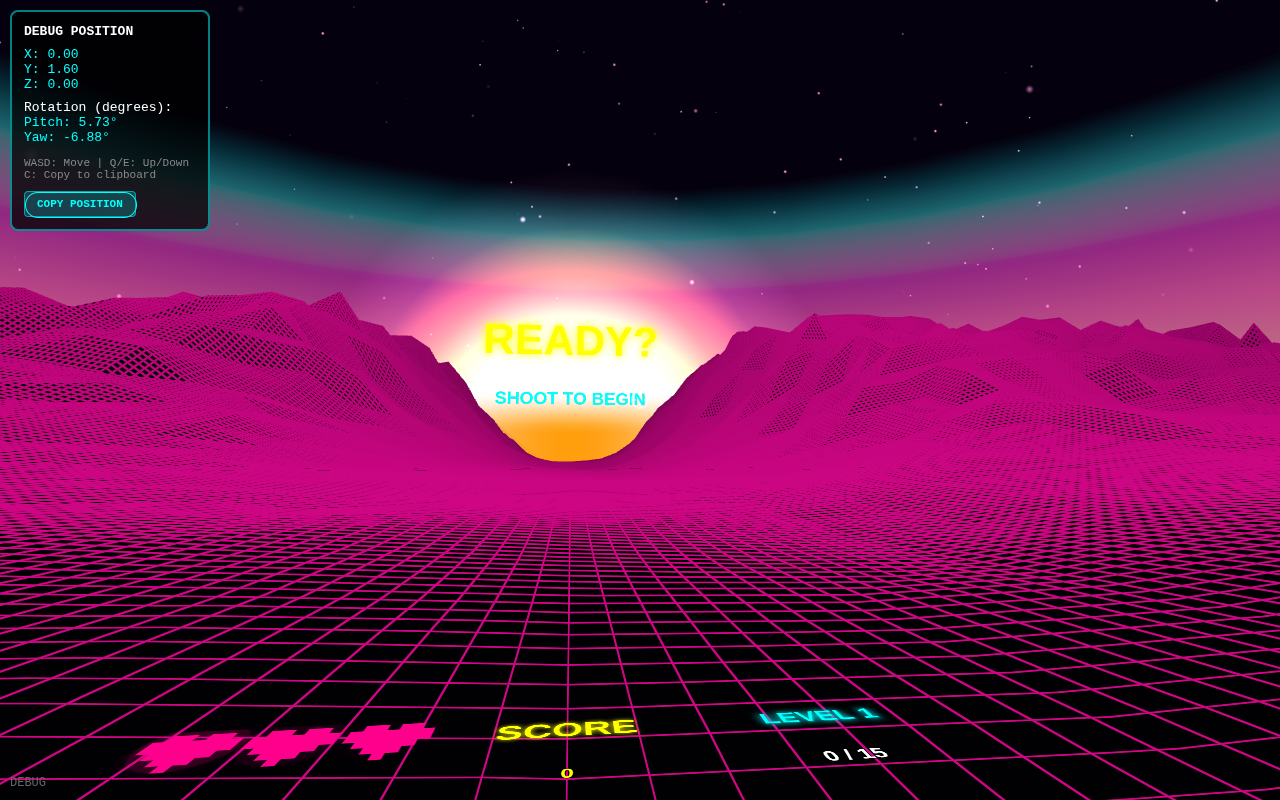
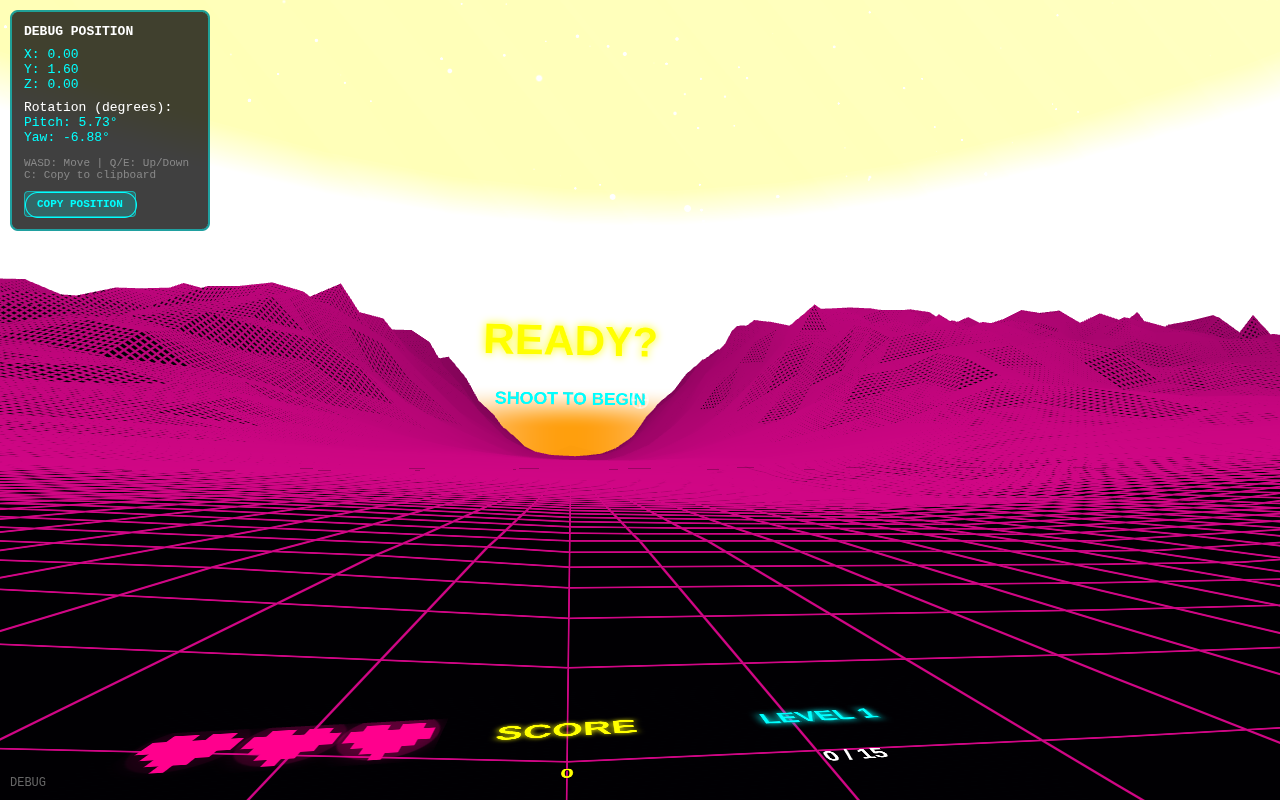
fix: VR camera height, alien planet FPS, hurt sound, synthwave improvements
VR Camera (proper fix):
- Use XRReferenceSpace.getOffsetReferenceSpace() for 0.4m Y offset
- Previous per-frame Y check was being overwritten by XR
- Now uses proper WebXR method for virtual camera height

Alien Planet FPS:
- Staggered updates: fireflies every 3rd frame, plants every 2nd
- Root cause was per-frame updates, not geometry count
- Restored visuals: fireflies 40→60, increased size

Player Hurt Sound (Minecraft-style):
- White noise burst with bandpass filter (sharp crack)
- Low thump: sine 150Hz→40Hz (body impact)
- High crack: square 800Hz→100Hz (whip-like)
- Duration: 0.12s (was 0.25s) - more immediate

Synthwave:
- Mountain quality: step 80→40 (doubled resolution)
- Sun: sprites→mesh (no more billboarding)
- All elements raised 8 units on Y axis

diff --git a/main.js b/main.js
@@ -303,21 +303,11 @@ let cameraShake = 0;
 let cameraShakeIntensity = 0;
 const originalCameraPos = new THREE.Vector3();
 
-// Helper: Get adjusted camera position for VR mode
-// In VR mode, the camera Y position represents the user's actual eye height.
-// This can vary from person to person, so we adjust it to match the game's
-// expected eye level of 1.6m for consistent UI positioning and enemy targeting.
+// Helper: Get camera position for UI positioning and enemy targeting
+// With the XR reference space offset (set during session start), camera.position.y
+// already includes the height offset. This function just returns the current position.
 function getAdjustedCameraPosition() {
-  if (!renderer || !renderer.xr || !renderer.xr.isPresenting) {
-    return camera.position.clone();
-  }
-  // In VR mode, adjust camera Y to match game's expected eye level
-  const adjusted = camera.position.clone();
-  const vrCameraY = camera.position.y;
-  const expectedEyeLevel = 1.6;
-  // Raise the virtual camera Y to match where enemies are targeting
-  adjusted.y = Math.max(vrCameraY, expectedEyeLevel);
-  return adjusted;
+  return camera.position.clone();
 }
 
 // Screen shake system
@@ -409,11 +399,25 @@ function init() {
     console.log('[vr] Session started - disabling foveation');
     renderer.xr.setFoveation(0);
 
-    // Ensure camera is at correct eye level when VR session starts
-    const MIN_EYE_LEVEL = 1.6;
-    if (camera.position.y < MIN_EYE_LEVEL) {
-      console.log('[vr] Adjusting camera Y from', camera.position.y, 'to', MIN_EYE_LEVEL);
-      camera.position.y = MIN_EYE_LEVEL;
+    // Fix VR camera height by offsetting the XR reference space
+    // In WebXR, camera.position is controlled by the XR device and updated every frame.
+    // To raise the virtual camera, we need to offset the reference space origin.
+    const session = renderer.xr.getSession();
+    if (session) {
+      session.requestReferenceSpace('local-floor').then((refSpace) => {
+        // Create an offset that raises the virtual camera by 0.4m
+        // This makes the player appear taller in the virtual world
+        const CAMERA_HEIGHT_OFFSET = 0.4;  // meters to raise the virtual camera
+        const offsetTransform = new XRRigidTransform(
+          { x: 0, y: CAMERA_HEIGHT_OFFSET, z: 0 },
+          { x: 0, y: 0, z: 0, w: 1 }
+        );
+        const offsetRefSpace = refSpace.getOffsetReferenceSpace(offsetTransform);
+        renderer.xr.setReferenceSpace(offsetRefSpace);
+        console.log('[vr] Applied camera height offset of', CAMERA_HEIGHT_OFFSET, 'm');
+      }).catch((err) => {
+        console.warn('[vr] Failed to set reference space offset:', err);
+      });
     }
   });
 
@@ -9129,15 +9133,9 @@ function render(timestamp) {
     }
   }
 
-  // ── VR camera height enforcement ──
-  // Ensure camera is always at correct eye level in VR mode
-  // This handles Quest re-center and VR re-entry cases
-  if (renderer.xr.isPresenting) {
-    const MIN_EYE_LEVEL = 1.6;
-    if (camera.position.y < MIN_EYE_LEVEL) {
-      camera.position.y = MIN_EYE_LEVEL;
-    }
-  }
+  // ── VR camera height is handled by XR reference space offset ──
+  // The offset is applied once when the XR session starts (see sessionstart handler)
+  // No per-frame modification needed - the reference space handles it correctly
 
   // ── Screen shake removed - using floor flash instead ──
   // Screen shake was causing camera position issues
@@ -9487,7 +9485,7 @@ function buildSynthwaveValleyScene(group) {
     fragmentShader: `uniform vec3 uGridColor; uniform vec3 uBaseColor; uniform vec3 uFogColor; uniform float uFlashIntensity; varying vec3 vWorldPos; varying vec3 vObjPos; varying float vHeight; varying float vFogDistance; float gridLine(float coord,float width){ float g=abs(fract(coord-0.5)-0.5)/fwidth(coord); return 1.0-smoothstep(width,width+1.0,g);} void main(){ float gridScale=1.0/3.0; float gx=gridLine(vObjPos.x*gridScale,0.35); float gz=gridLine(vObjPos.z*gridScale,0.35); float grid=max(gx,gz); float glowPath=exp(-abs(vObjPos.x)*0.014)*smoothstep(350.0,-150.0,vObjPos.z); grid=max(grid, glowPath*0.34); vec3 col=mix(uBaseColor, uGridColor, grid); float ridgeGlow=smoothstep(48.0,160.0,vHeight)*smoothstep(100.0,350.0,abs(vObjPos.x)); col+=uGridColor*ridgeGlow*0.18; float fogAmount=1.0-exp(-0.0000012*vFogDistance*vFogDistance); col=mix(col,uFogColor, clamp(fogAmount*0.58,0.0,1.0)); vec3 flashColor=vec3(1.0,0.0,0.0); col=mix(col,flashColor,uFlashIntensity); gl_FragColor=vec4(col*${brightness.toFixed(2)},1.0); }`,
   });
   const terrain = new THREE.Mesh(terrainGeo, terrainMat);
-  terrain.position.set(0, floorY + 1.5, -700);
+  terrain.position.set(0, floorY + 1.5 + 8, -700);  // Moved up by 8 units (Task 4)
   terrain.frustumCulled = false;
   group.add(terrain);
   registerFadeMaterial(terrainMat);
@@ -9495,10 +9493,11 @@ function buildSynthwaveValleyScene(group) {
   biomeTerrainMaterials.push({ type: 'shader', material: terrainMat });
 
   // Mountains with polygonOffset to prevent Z-fighting
+  // Restored quality: reduced step from 80 to 40 for better mountain resolution
   const makeLayer = (color, opacity, scaleY, z, y) => {
     const points = [];
     const width = 2000;
-    const step = 80;
+    const step = 40;
     for (let x = -width / 2; x <= width / 2; x += step) {
       const n1 = Math.sin(x * 0.012 + z * 0.003) * 0.5 + 0.5;
       const n2 = Math.sin(x * 0.043 - z * 0.001) * 0.5 + 0.5;
@@ -9509,10 +9508,10 @@ function buildSynthwaveValleyScene(group) {
     points.push(new THREE.Vector2(width / 2, -120));
     const shape = new THREE.Shape(points);
     const geo = new THREE.ShapeGeometry(shape);
-    const mat = new THREE.MeshBasicMaterial({ 
-      color, 
-      transparent: true, 
-      opacity, 
+    const mat = new THREE.MeshBasicMaterial({
+      color,
+      transparent: true,
+      opacity,
       depthWrite: false,
       depthTest: true,
       polygonOffset: true,
@@ -9520,7 +9519,7 @@ function buildSynthwaveValleyScene(group) {
       polygonOffsetUnits: 2.0,
     });
     const mesh = new THREE.Mesh(geo, mat);
-    mesh.position.set(0, y, z);
+    mesh.position.set(0, y + 8, z);  // Moved up by 8 units (Task 4)
     mesh.frustumCulled = false;
     group.add(mesh);
     registerFadeMaterial(mat);
@@ -9530,7 +9529,7 @@ function buildSynthwaveValleyScene(group) {
 
   // Sun + glow
   const sunGroup = new THREE.Group();
-  sunGroup.position.set(0, 30, -760);
+  sunGroup.position.set(0, 30 + 8, -760);  // Moved up by 8 units (Task 4)
   group.add(sunGroup);
 
   const makeRadial = (inner, outer) => {
@@ -9550,25 +9549,25 @@ function buildSynthwaveValleyScene(group) {
   const sunCoreTex = makeRadial('rgba(255,220,80,1.0)', 'rgba(255,200,50,1.0)');
   // Add a second brighter glow layer for maximum intensity
   const sunOuterGlowTex = makeRadial('rgba(255,230,100,0.9)', 'rgba(255,180,60,0.3)');
-  // Outer massive glow - very large to illuminate scene
-  const sunOuterGlowMat = new THREE.SpriteMaterial({ map: sunOuterGlowTex, color: 0xffffff, transparent: true, opacity: 1.0, depthWrite: false, blending: THREE.AdditiveBlending });
-  const sunOuterGlow = new THREE.Sprite(sunOuterGlowMat);
+  // Outer massive glow - very large to illuminate scene (FIX: converted Sprite to Mesh to disable billboarding)
+  const sunOuterGlowMat = new THREE.MeshBasicMaterial({ map: sunOuterGlowTex, color: 0xffffff, transparent: true, opacity: 1.0, depthWrite: false, blending: THREE.AdditiveBlending, side: THREE.DoubleSide });
+  const sunOuterGlow = new THREE.Mesh(new THREE.PlaneGeometry(700, 700), sunOuterGlowMat);
   sunOuterGlow.scale.set(700, 700, 1);
   sunOuterGlow.frustumCulled = false;
   sunOuterGlow.renderOrder = -3;
   sunGroup.add(sunOuterGlow);
   registerFadeMaterial(sunOuterGlowMat);
-  // Main bright glow
-  const sunGlowMat = new THREE.SpriteMaterial({ map: sunGlowTex, color: 0xffcc00, transparent: true, opacity: 1.0, depthWrite: false, blending: THREE.AdditiveBlending });
-  const sunGlow = new THREE.Sprite(sunGlowMat);
+  // Main bright glow (FIX: converted Sprite to Mesh to disable billboarding)
+  const sunGlowMat = new THREE.MeshBasicMaterial({ map: sunGlowTex, color: 0xffcc00, transparent: true, opacity: 1.0, depthWrite: false, blending: THREE.AdditiveBlending, side: THREE.DoubleSide });
+  const sunGlow = new THREE.Mesh(new THREE.PlaneGeometry(550, 550), sunGlowMat);
   sunGlow.scale.set(550, 550, 1);
   sunGlow.frustumCulled = false;
   sunGlow.renderOrder = -2;
   sunGroup.add(sunGlow);
   registerFadeMaterial(sunGlowMat);
-  // Orange-yellow core - should be visible as a distinct circle
-  const sunCoreMat = new THREE.SpriteMaterial({ map: sunCoreTex, color: 0xffdd00, transparent: true, opacity: 1.0, depthWrite: false, blending: THREE.AdditiveBlending });
-  const sunCore = new THREE.Sprite(sunCoreMat);
+  // Orange-yellow core - should be visible as a distinct circle (FIX: converted Sprite to Mesh to disable billboarding)
+  const sunCoreMat = new THREE.MeshBasicMaterial({ map: sunCoreTex, color: 0xffdd00, transparent: true, opacity: 1.0, depthWrite: false, blending: THREE.AdditiveBlending, side: THREE.DoubleSide });
+  const sunCore = new THREE.Mesh(new THREE.PlaneGeometry(200, 200), sunCoreMat);
   sunCore.scale.set(200, 200, 1);  // Smaller core for distinct circle
   sunCore.frustumCulled = false;
   sunCore.renderOrder = -1;
@@ -9585,7 +9584,7 @@ function buildSynthwaveValleyScene(group) {
     fragmentShader: `varying vec2 vUv; uniform vec3 c1; uniform vec3 c2; void main(){ float alpha=smoothstep(0.0,0.38,vUv.y)*(1.0-smoothstep(0.62,1.0,vUv.y)); float side=1.0-smoothstep(0.0,0.4,abs(vUv.x-0.5)*2.0); vec3 col=mix(c2,c1,1.0-abs(vUv.x-0.5)*1.5); gl_FragColor=vec4(col, alpha*side*0.95); }`,
   });
   const horizonGlow = new THREE.Mesh(horizonGlowGeo, horizonGlowMat);
-  horizonGlow.position.set(0, 12, -745);
+  horizonGlow.position.set(0, 12 + 8, -745);  // Moved up by 8 units (Task 4)
   horizonGlow.frustumCulled = false;
   group.add(horizonGlow);
   registerFadeMaterial(horizonGlowMat);
@@ -10254,15 +10253,15 @@ function buildAlienPlanetScene(group) {
     group.add(critterGroup);
   }
 
-  // Fireflies - 80 particles with gentle drift (reduced for performance)
+  // Fireflies - 60 particles with gentle drift (restored from 40 for visuals)
   // AGGRESSIVE: Only spawn in front of player (negative Z)
   const fireflyPositions = [];
   const fireflyVelocities = [];
   const fireflyGeo = new THREE.BufferGeometry();
 
-  for (let i = 0; i < 40; i++) {
+  for (let i = 0; i < 60; i++) {
     const angle = Math.random() * Math.PI * 2;
-    const radius = 4 + Math.random() * 30;
+    const radius = 4 + Math.random() * 35;
     const x = Math.cos(angle) * radius + (Math.random() - 0.5) * 3;
     const z = Math.sin(angle) * radius + (Math.random() - 0.5) * 3;
     const y = 0.5 + Math.random() * 3;  // Float above ground
@@ -10281,7 +10280,7 @@ function buildAlienPlanetScene(group) {
   fireflyGeo.setAttribute('position', new THREE.Float32BufferAttribute(fireflyPositions, 3));
   const fireflyMat = new THREE.PointsMaterial({
     color: 0x44ff88,
-    size: 0.0875,  // Reduced from 0.175 (50% smaller)
+    size: 0.12,  // Restored from 0.0875 for better visibility
     transparent: true,
     opacity: 0.9,
     sizeAttenuation: true
@@ -10346,37 +10345,46 @@ function buildAlienPlanetScene(group) {
   cityMeshes.push(megaMesh);
   group.add(megaMesh);
 
-  // Animation update
+  // Animation update - OPTIMIZED: stagger updates to reduce per-frame cost
+  let frameCounter = 0;
   group.userData.update = (now, dt) => {
+    frameCounter++;
     const time = now * 0.001;
+
+    // City shader: update every frame (cheap - just uniform)
     cityShaderMat.uniforms.uTime.value = time;
 
-    // Animate green light pulse
+    // Green light pulse: every frame (cheap - single value)
     greenLight.intensity = 1.2 + Math.sin(time * 2) * 0.3;
 
-    // Animate firefly drift
-    const ffPos = fireflyGeo.attributes.position.array;
-    for (let i = 0; i < 40; i++) {
-      const idx = i * 3;
-      ffPos[idx] += fireflyVelocities[idx];
-      ffPos[idx + 1] += fireflyVelocities[idx + 1];
-      ffPos[idx + 2] += fireflyVelocities[idx + 2];
+    // Firefly drift: every 3rd frame (expensive - 60 particle updates)
+    if (frameCounter % 3 === 0) {
+      const ffPos = fireflyGeo.attributes.position.array;
+      const ffDt = dt * 3; // Compensate for skipped frames
+      for (let i = 0; i < 60; i++) {
+        const idx = i * 3;
+        ffPos[idx] += fireflyVelocities[idx] * ffDt * 60;
+        ffPos[idx + 1] += fireflyVelocities[idx + 1] * ffDt * 60;
+        ffPos[idx + 2] += fireflyVelocities[idx + 2] * ffDt * 60;
 
-      // Wrap around boundaries
-      if (ffPos[idx] > 30) ffPos[idx] = -30;
-      if (ffPos[idx] < -30) ffPos[idx] = 30;
-      if (ffPos[idx + 1] > 10) ffPos[idx + 1] = 1;
-      if (ffPos[idx + 1] < 0.5) ffPos[idx + 1] = 9;
-      if (ffPos[idx + 2] > 30) ffPos[idx + 2] = -30;
-      if (ffPos[idx + 2] < -30) ffPos[idx + 2] = 30;
+        // Wrap around boundaries
+        if (ffPos[idx] > 30) ffPos[idx] = -30;
+        if (ffPos[idx] < -30) ffPos[idx] = 30;
+        if (ffPos[idx + 1] > 10) ffPos[idx + 1] = 1;
+        if (ffPos[idx + 1] < 0.5) ffPos[idx + 1] = 9;
+        if (ffPos[idx + 2] > 30) ffPos[idx + 2] = -30;
+        if (ffPos[idx + 2] < -30) ffPos[idx + 2] = 30;
+      }
+      fireflyGeo.attributes.position.needsUpdate = true;
     }
-    fireflyGeo.attributes.position.needsUpdate = true;
 
-    // Animate plant sway
-    for (const plant of alienPlants) {
-      const sway = Math.sin(time * plant.userData.swaySpeed + plant.userData.swayOffset) * 0.05;
-      plant.rotation.x = plant.userData.baseRotationX + sway;
-      plant.rotation.z = plant.userData.baseRotationZ + sway * 0.7;
+    // Plant sway: every 2nd frame (expensive - 100 object updates)
+    if (frameCounter % 2 === 0) {
+      for (const plant of alienPlants) {
+        const sway = Math.sin(time * plant.userData.swaySpeed + plant.userData.swayOffset) * 0.05;
+        plant.rotation.x = plant.userData.baseRotationX + sway;
+        plant.rotation.z = plant.userData.baseRotationZ + sway * 0.7;
+      }
     }
   };
 

diff --git a/audio.js b/audio.js
@@ -452,42 +452,71 @@ export function playExplosionSound() {
 
 // ── Player damage ──────────────────────────────────────────
 export function playDamageSound() {
-  // More impactful player hit sound: louder, harsher, with distinct impact
+  // Minecraft-style "OUCH" - sharp static crack with immediate impact
+  // Key: white noise burst + low thump, very short (0.1-0.15s)
   const ctx = getAudioContext();
   const t = ctx.currentTime;
 
-  // Main impact oscillator
-  const osc = ctx.createOscillator();
-  const osc2 = ctx.createOscillator();
-  const gain = ctx.createGain();
-  const filter = ctx.createBiquadFilter();
+  // 1. WHITE NOISE BURST - the "crack" sound (like Minecraft hit)
+  const noiseBufferSize = Math.floor(ctx.sampleRate * 0.12); // 120ms
+  const noiseBuffer = ctx.createBuffer(1, noiseBufferSize, ctx.sampleRate);
+  const noiseData = noiseBuffer.getChannelData(0);
+  for (let i = 0; i < noiseBufferSize; i++) {
+    noiseData[i] = Math.random() * 2 - 1; // White noise
+  }
 
-  osc.type = 'sawtooth';  // Harsher than triangle
-  osc2.type = 'square';  // Add grit
-  filter.type = 'lowpass';
+  const noise = ctx.createBufferSource();
+  noise.buffer = noiseBuffer;
 
-  // Drop from high to low pitch - distinct impact
-  osc.frequency.setValueAtTime(300, t);
-  osc.frequency.exponentialRampToValueAtTime(60, t + 0.25);
-  osc2.frequency.setValueAtTime(250, t);
-  osc2.frequency.exponentialRampToValueAtTime(50, t + 0.25);
+  // Sharp bandpass filter for "crack" character
+  const noiseFilter = ctx.createBiquadFilter();
+  noiseFilter.type = 'bandpass';
+  noiseFilter.frequency.setValueAtTime(2000, t); // Mid-high crack
+  noiseFilter.Q.setValueAtTime(2, t);
 
-  filter.frequency.setValueAtTime(800, t);
-  filter.Q.setValueAtTime(5, t);
+  // Noise envelope: INSTANT attack, quick decay
+  const noiseGain = ctx.createGain();
+  noiseGain.gain.setValueAtTime(0.5, t); // LOUD initial crack
+  noiseGain.gain.exponentialRampToValueAtTime(0.001, t + 0.08); // Fast decay
 
-  // Louder initial impact with faster decay
-  gain.gain.setValueAtTime(0.35, t);  // Increased from 0.25
-  gain.gain.exponentialRampToValueAtTime(0.001, t + 0.25);
+  noise.connect(noiseFilter);
+  noiseFilter.connect(noiseGain);
+  noiseGain.connect(ctx.destination);
 
-  osc.connect(filter);
-  osc2.connect(filter);
-  filter.connect(gain);
-  gain.connect(ctx.destination);
+  noise.start(t);
+  noise.stop(t + 0.12);
 
-  osc.start(t);
-  osc2.start(t);
-  osc.stop(t + 0.25);
-  osc2.stop(t + 0.25);
+  // 2. LOW THUMP - body impact feel
+  const thumpOsc = ctx.createOscillator();
+  thumpOsc.type = 'sine';
+  thumpOsc.frequency.setValueAtTime(150, t);
+  thumpOsc.frequency.exponentialRampToValueAtTime(40, t + 0.1); // Drop for "punch"
+
+  const thumpGain = ctx.createGain();
+  thumpGain.gain.setValueAtTime(0.4, t); // Strong initial thump
+  thumpGain.gain.exponentialRampToValueAtTime(0.001, t + 0.1);
+
+  thumpOsc.connect(thumpGain);
+  thumpGain.connect(ctx.destination);
+
+  thumpOsc.start(t);
+  thumpOsc.stop(t + 0.1);
+
+  // 3. HIGH CRACK - add sharpness (like a whip crack)
+  const crackOsc = ctx.createOscillator();
+  crackOsc.type = 'square';
+  crackOsc.frequency.setValueAtTime(800, t);
+  crackOsc.frequency.exponentialRampToValueAtTime(100, t + 0.05); // Quick drop
+
+  const crackGain = ctx.createGain();
+  crackGain.gain.setValueAtTime(0.15, t);
+  crackGain.gain.exponentialRampToValueAtTime(0.001, t + 0.05);
+
+  crackOsc.connect(crackGain);
+  crackGain.connect(ctx.destination);
+
+  crackOsc.start(t);
+  crackOsc.stop(t + 0.05);
 }
 
 // ── Enemy/Boss Projectile Fire Sound ─────────────────────────
